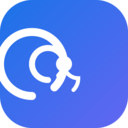
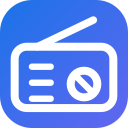
应用图标与标题栏图标统一为手绘收音机线条，重导出各尺寸 PNG。

diff --git a/frontend/src/components/Titlebar.tsx b/frontend/src/components/Titlebar.tsx
@@ -6,11 +6,12 @@ export function Titlebar({ onClose }: TitlebarProps) {
   return (
     <div className="titlebar" data-tauri-drag-region>
       <div className="titlebar-left" data-tauri-drag-region>
-        <svg className="app-icon" viewBox="0 0 24 24" fill="none" stroke="currentColor" strokeWidth="2">
-          <path d="M4.9 19.1C1 15.2 1 8.8 4.9 4.9c2-2 5.1-2 7.1 0 1.2 1.2 2 2.9 2 4.6 0 3.6-2.9 6.5-6.5 6.5-1.7 0-3.4-.8-4.6-2z" />
-          <path d="M7.8 16.2c-1.1 1.1-1.7 2.6-1.7 4.2 0 3.1 2.5 5.6 5.6 5.6 1.6 0 3.1-.6 4.2-1.7" />
-          <path d="M11 5a6 6 0 0 1 6 6c0 1.6-.6 3.1-1.7 4.2" />
-          <circle cx="12" cy="12" r="2" />
+        <svg className="app-icon" viewBox="0 0 24 24" fill="none" stroke="currentColor" strokeLinecap="round" strokeLinejoin="round" aria-hidden="true">
+          <rect x="2.75" y="9.25" width="18.5" height="11.5" rx="2.25" strokeWidth="1.5" />
+          <path d="M6 13h3.5M6 16h3.5M6 19h3.5" strokeWidth="1.2" />
+          <circle cx="15.75" cy="16.25" r="2.5" strokeWidth="1.5" />
+          <path d="M14.25 14.75l3 3" strokeWidth="1.2" />
+          <path d="M7 9.25L17.5 4.25" strokeWidth="1.4" />
         </svg>
         <span className="app-title">FM 电台</span>
       </div>
